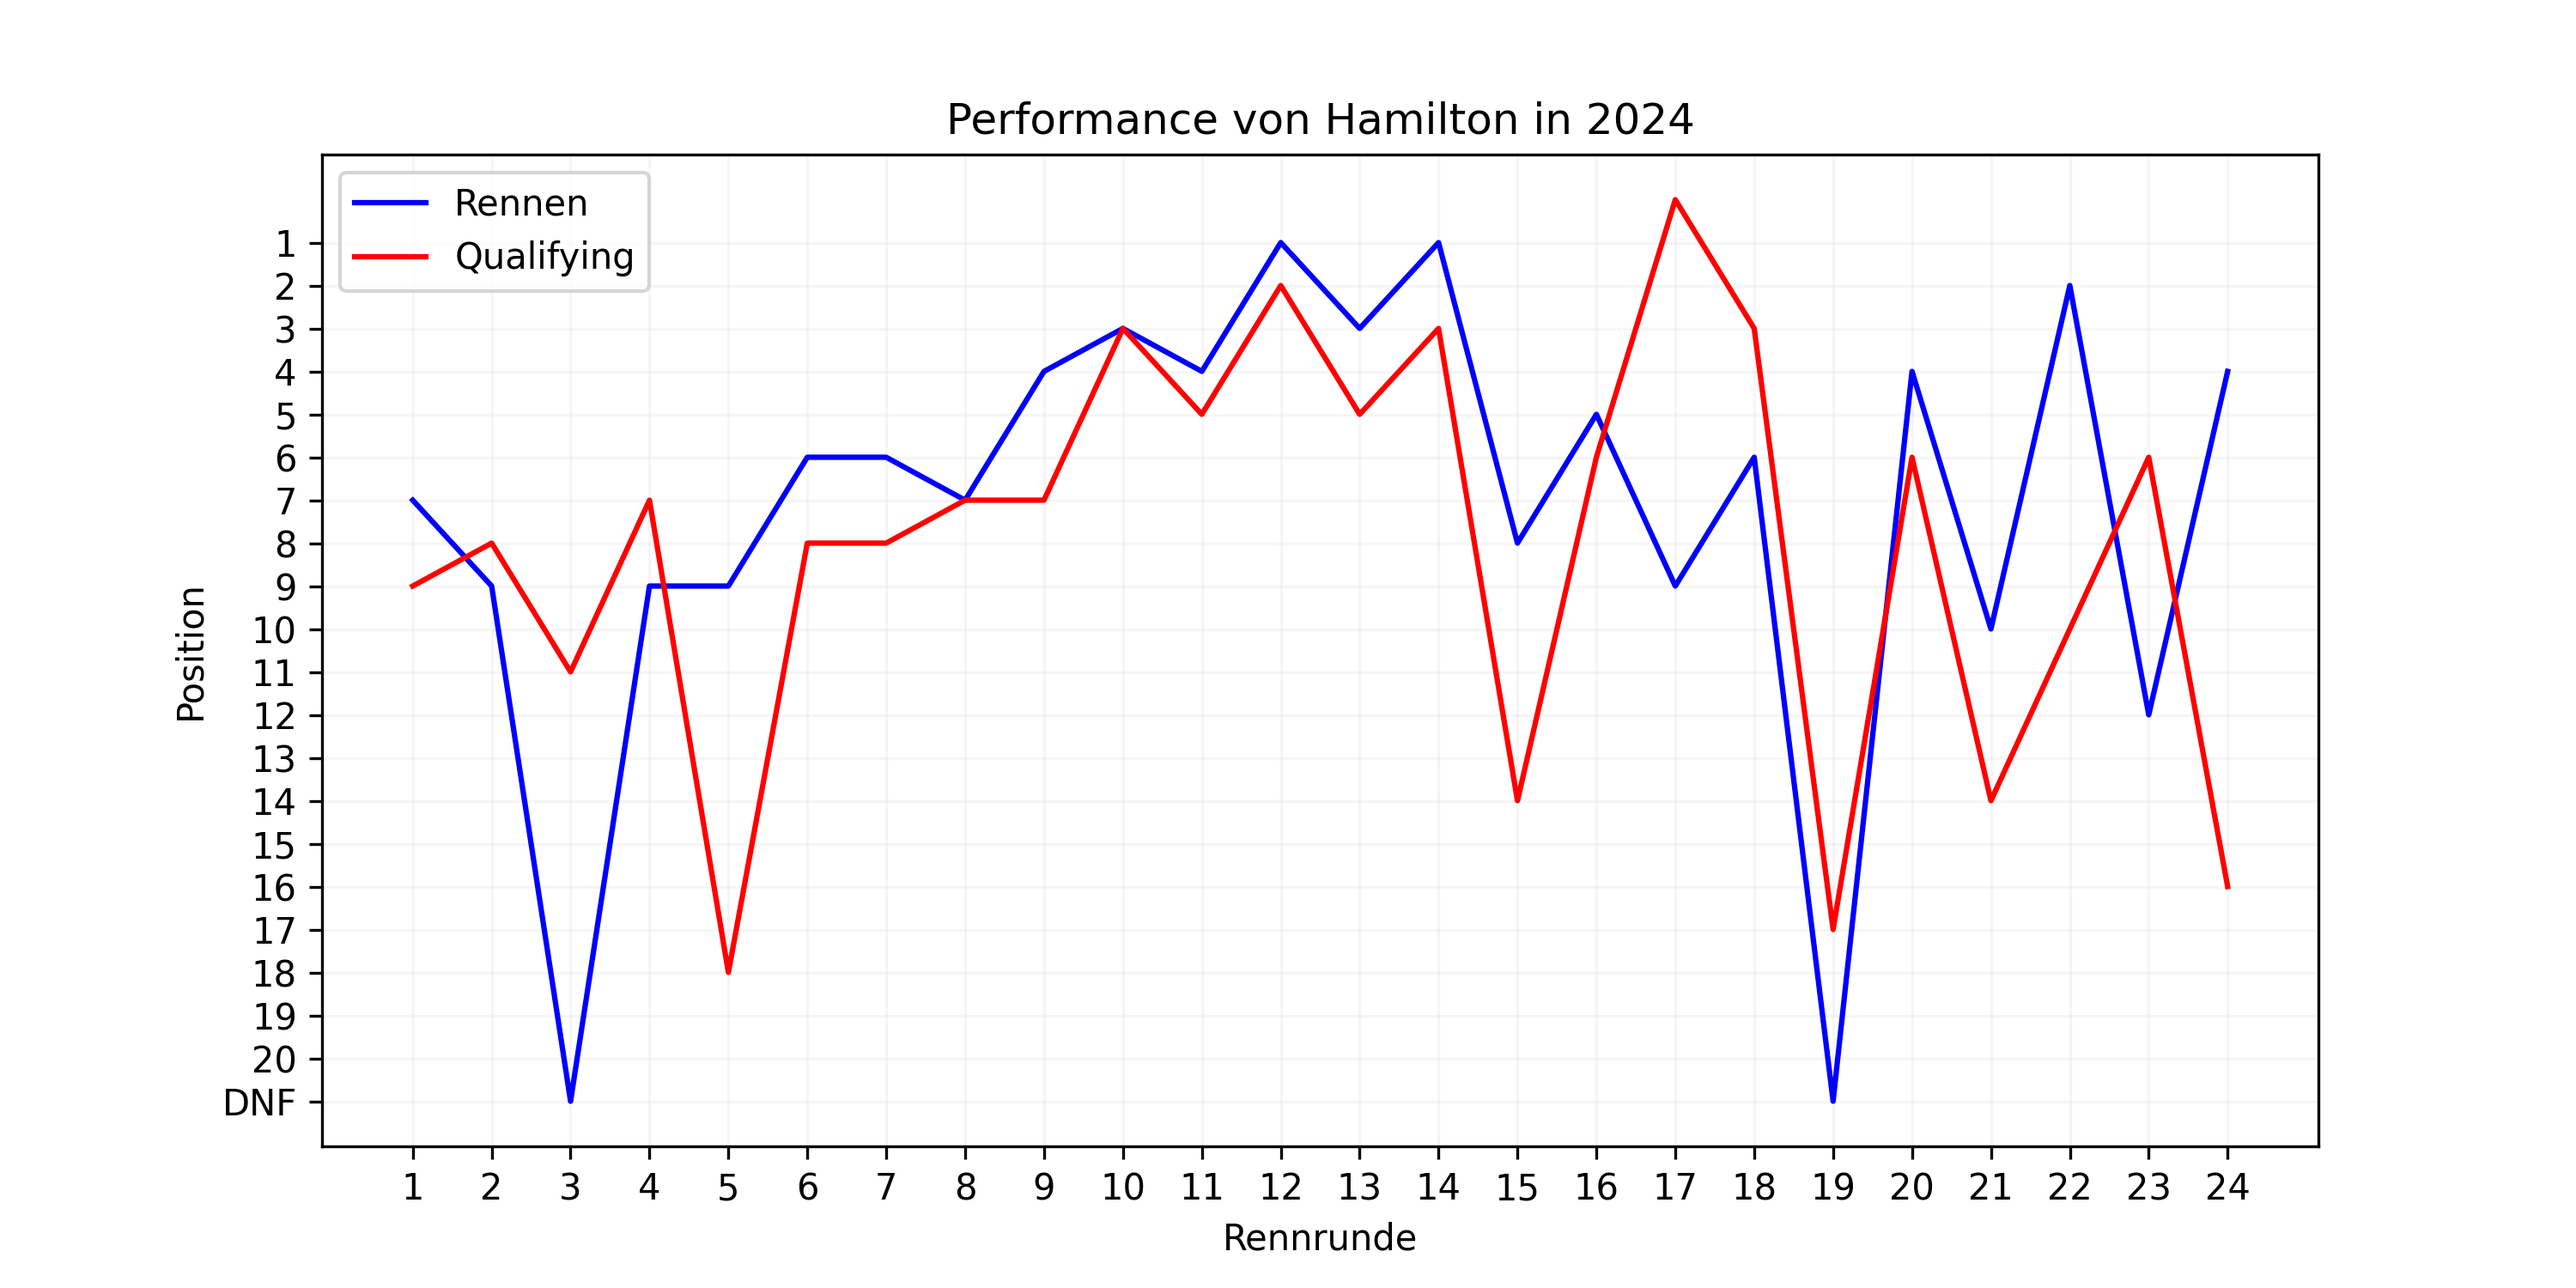
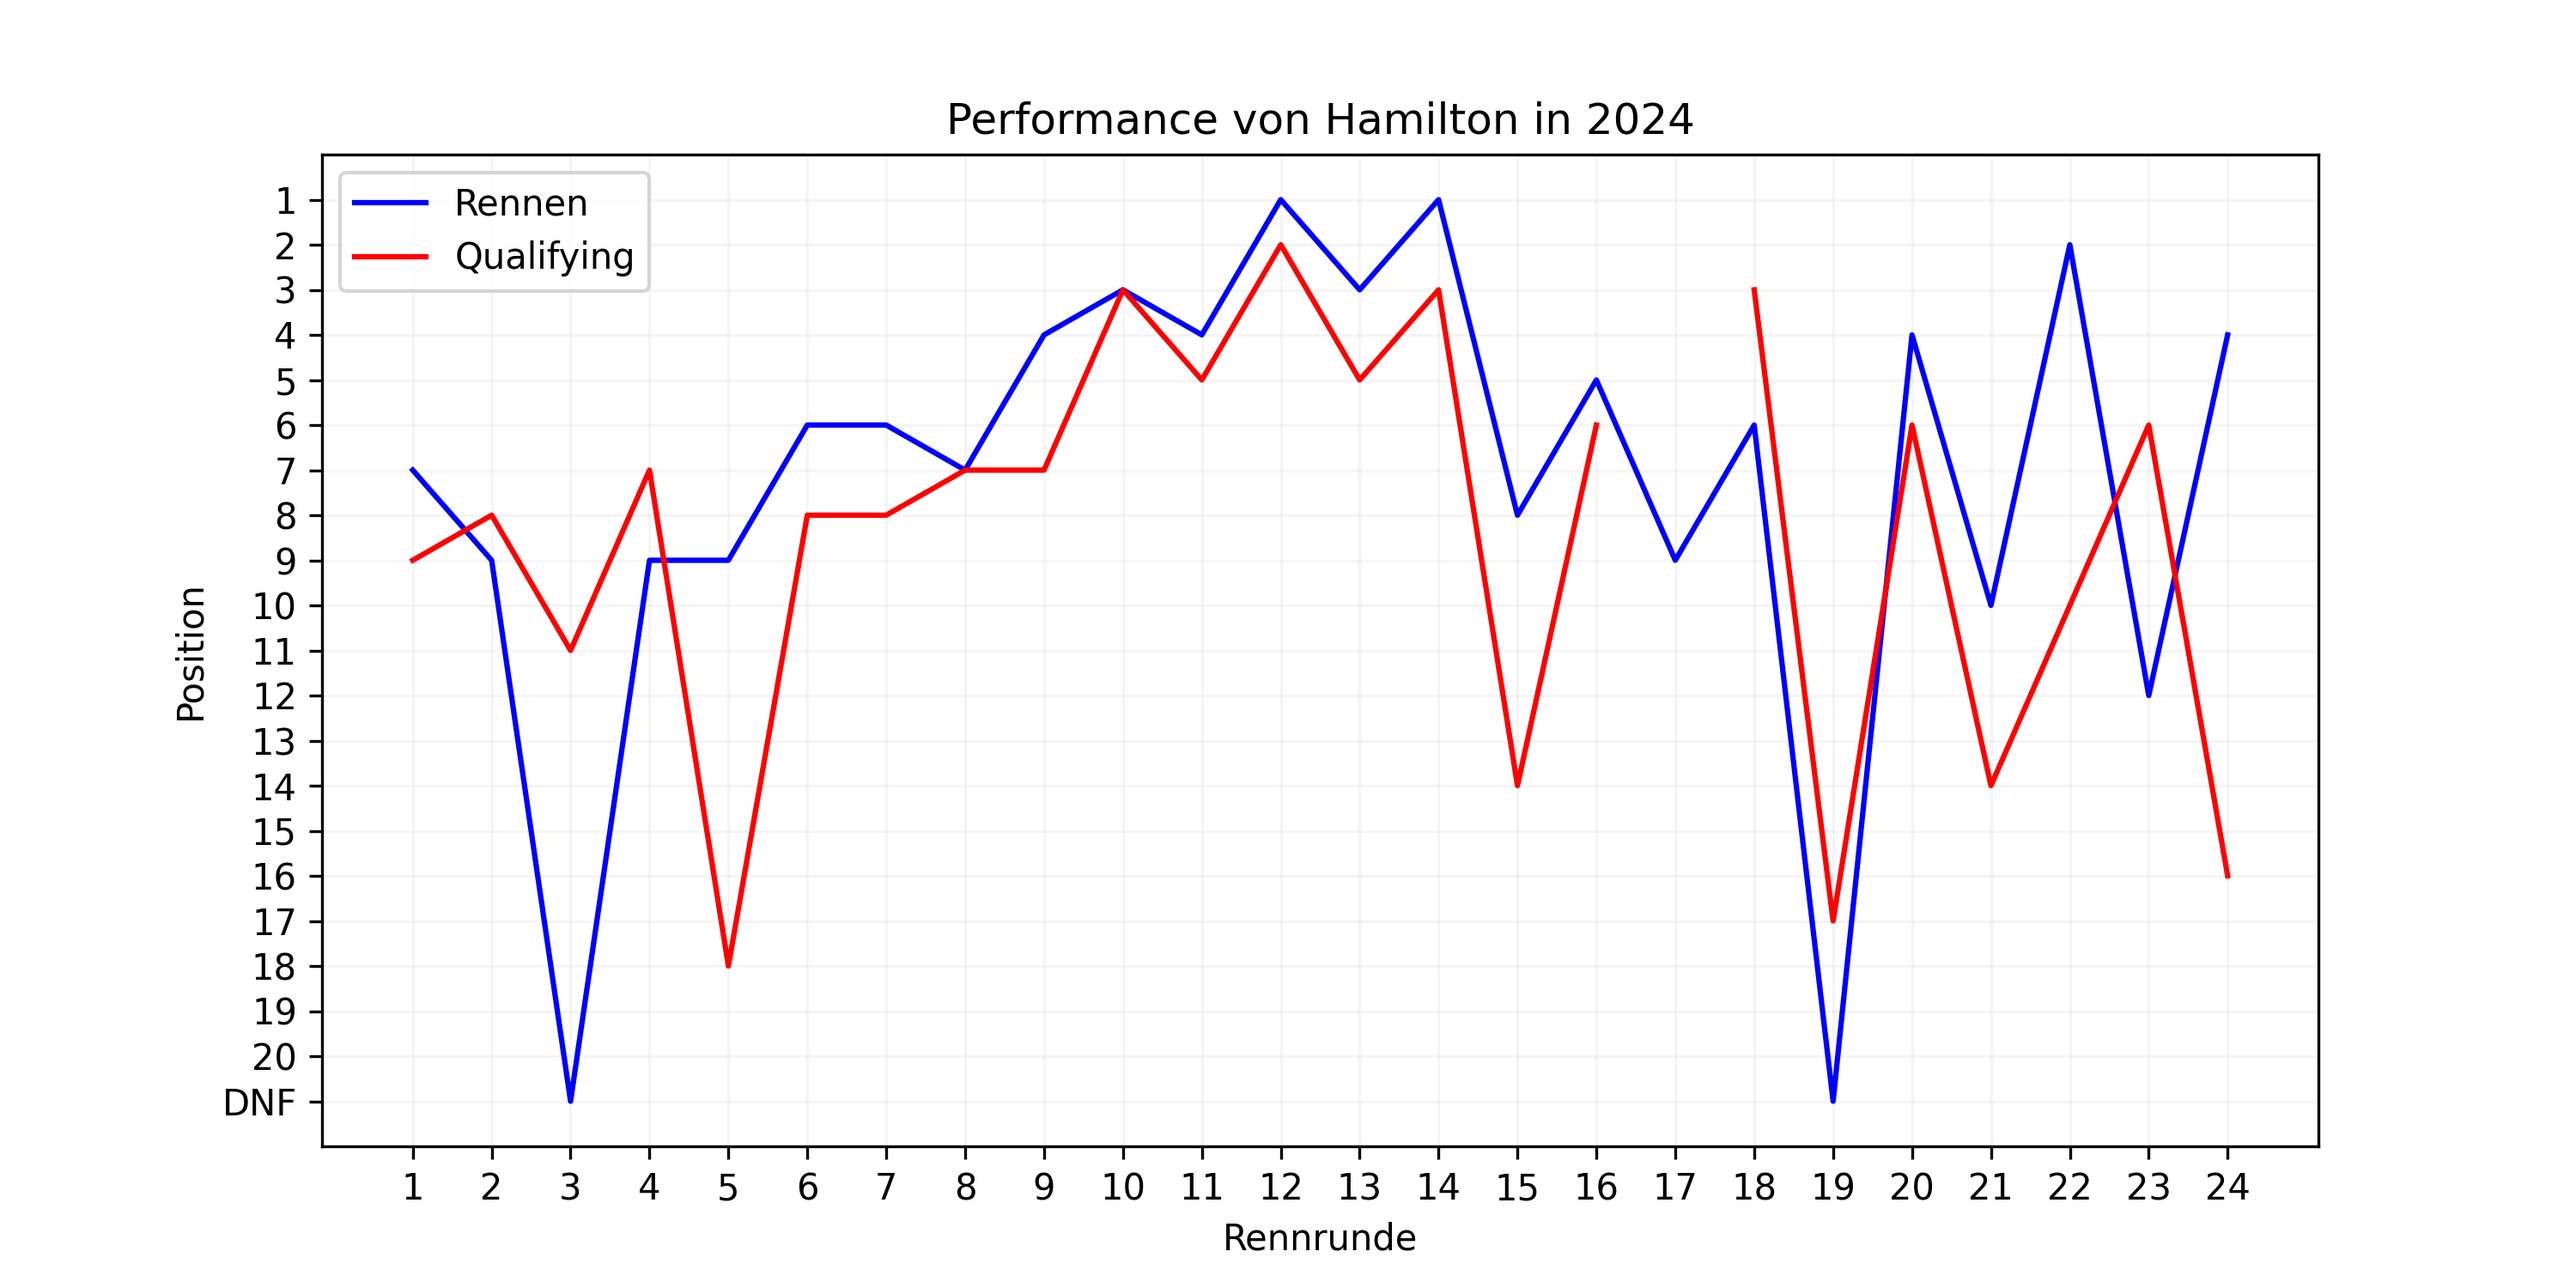
updated

Changed region(s): [[0.155, 0.1533, 0.868, 0.7053], [0.093, 0.184, 0.124, 0.828], [0.651, 0.2147, 0.682, 0.2453]]

diff --git a/matplotlib_graphic_generator.py b/matplotlib_graphic_generator.py
@@ -1,7 +1,7 @@
-import json
 import os
-import matplotlib.pyplot as plt
+import json
 import numpy as np
+import matplotlib.pyplot as plt
 
 def plot_driver_results(year, driver_id):
     file_path = f"cache/matplotlib/race_results_{year}.json"
@@ -16,25 +16,23 @@ def plot_driver_results(year, driver_id):
     
     total_races = len(race_results_data)
     rounds = list(range(1, total_races + 1))
-    positions = [np.nan] * total_races  # Initialisiere alle Werte mit NaN
-    qualifying_positions = [np.nan] * total_races  # Initialisiere alle Werte für das Qualifying mit NaN
+    positions = [np.nan] * total_races
+    qualifying_positions = [np.nan] * total_races
     
     for round_num, race_data in race_results_data.items():
         for result in race_data["race"]:
             if result["driver"] == driver_id:
-                index = int(round_num) - 1  # Index anpassen
+                index = int(round_num) - 1
                 if result["status"] == "DNF":
-                    positions[index] = 21  # DNF wird als Position 21 dargestellt
+                    positions[index] = 21
                 else:
                     positions[index] = int(result["position"])
                 break
         
         for result in race_data.get("qualifying", []):
             if result["driver"] == driver_id:
-                index = int(round_num) - 1  # Index anpassen
+                index = int(round_num) - 1
                 grid_position = int(result["grid"])
-                
-                # Filter: Falls Gridposition 0 ist, ignoriere das Qualifying-Ergebnis
                 if grid_position > 0:
                     qualifying_positions[index] = grid_position
                 break
@@ -44,8 +42,21 @@ def plot_driver_results(year, driver_id):
         return
     
     plt.figure(figsize=(10, 5))
+    
+    # Linien zeichnen, ohne zusätzliche Marker
     plt.plot(rounds, positions, linestyle="-", color="b", label="Rennen")
     plt.plot(rounds, qualifying_positions, linestyle="-", color="r", label="Qualifying")
+    
+    # Einzelne Punkte nur dort setzen, wo keine Verbindung besteht
+    for i in range(total_races):
+        if not np.isnan(positions[i]):
+            if (i == 0 or np.isnan(positions[i - 1])) and (i == total_races - 1 or np.isnan(positions[i + 1])):
+                plt.scatter(rounds[i], positions[i], color='b', s=30)
+        
+        if not np.isnan(qualifying_positions[i]):
+            if (i == 0 or np.isnan(qualifying_positions[i - 1])) and (i == total_races - 1 or np.isnan(qualifying_positions[i + 1])):
+                plt.scatter(rounds[i], qualifying_positions[i], color='r')
+    
     plt.gca().invert_yaxis()
     plt.xlabel("Rennrunde")
     plt.ylabel("Position")
@@ -115,6 +126,6 @@ def plot_driver_championship(year):
 
 if __name__ == "__main__":
     year = 2024
-    driver_id = "zhou"
+    driver_id = "sainz"
     plot_driver_results(year, driver_id)
     # plot_driver_championship(year)
